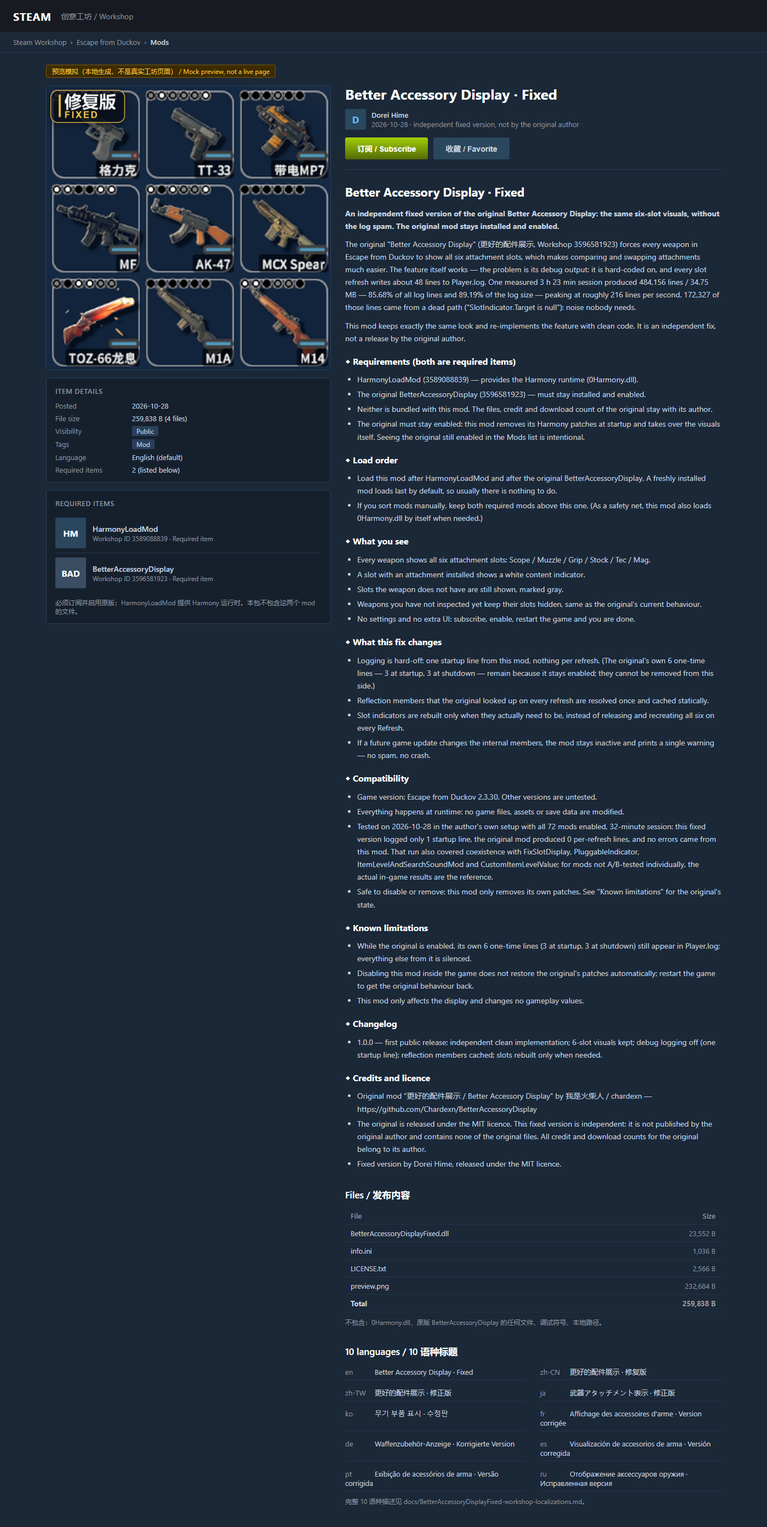
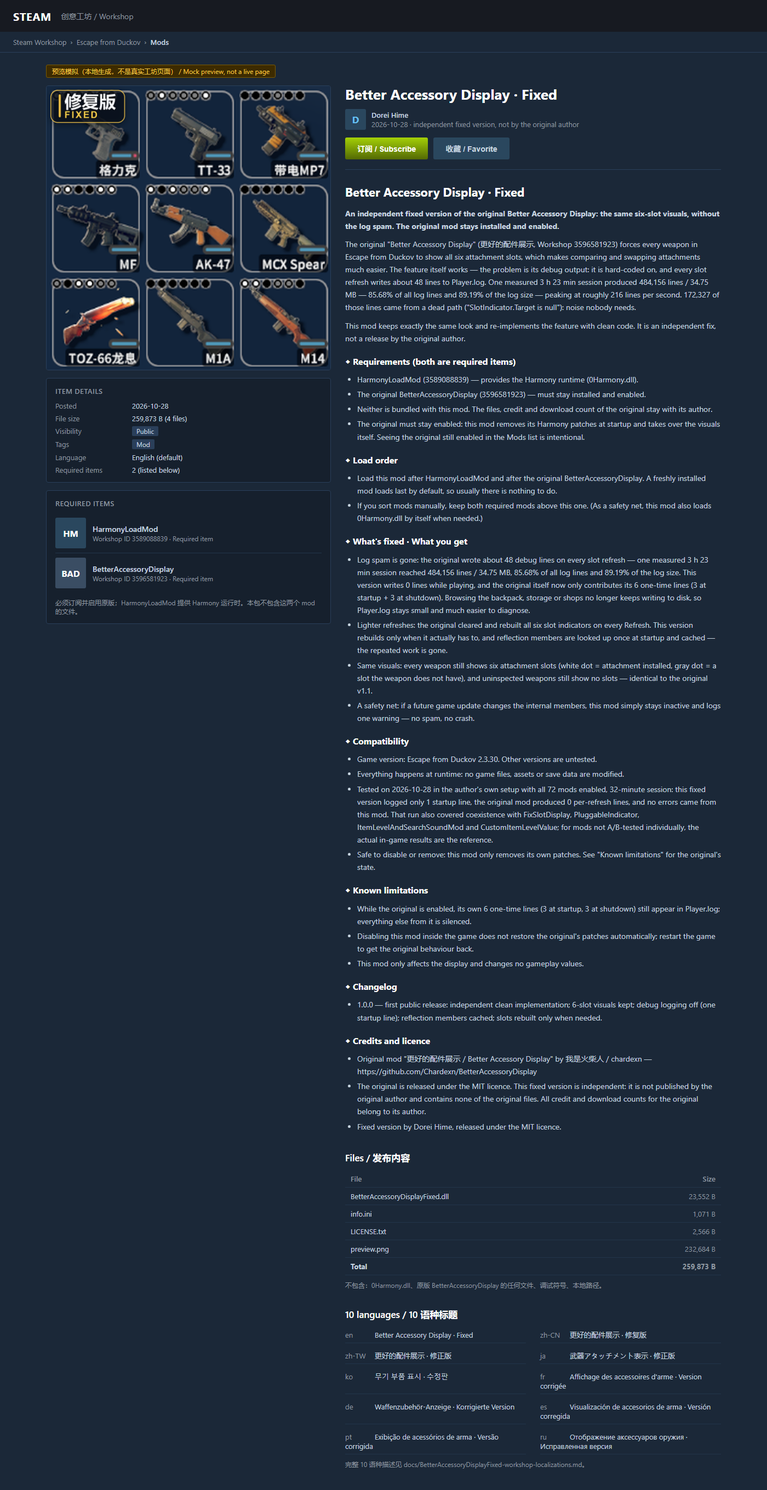
docs: link the published Steam Workshop item and refresh Workshop copy
Workshop item: https://steamcommunity.com/sharedfiles/filedetails/?id=3828601227 (10 languages; Russian description condensed to fit Steam's localized description limit).

diff --git a/docs/workshop-localizations.md b/docs/workshop-localizations.md
@@ -26,18 +26,11 @@ This mod keeps exactly the same look and re-implements the feature with clean co
 [list][*]Load this mod after HarmonyLoadMod and after the original BetterAccessoryDisplay. A freshly installed mod loads last by default, so usually there is nothing to do.
 [*]If you sort mods manually, keep both required mods above this one. (As a safety net, this mod also loads 0Harmony.dll by itself when needed.)[/list]
 
-[h2]◆ What you see[/h2]
-[list][*]Every weapon shows all six attachment slots: Scope / Muzzle / Grip / Stock / Tec / Mag.
-[*]A slot with an attachment installed shows a white content indicator.
-[*]Slots the weapon does not have are still shown, marked gray.
-[*]Weapons you have not inspected yet keep their slots hidden, same as the original's current behaviour.
-[*]No settings and no extra UI: subscribe, enable, restart the game and you are done.[/list]
-
-[h2]◆ What this fix changes[/h2]
-[list][*]Logging is hard-off: one startup line from this mod, nothing per refresh. (The original's own 6 one-time lines — 3 at startup, 3 at shutdown — remain because it stays enabled; they cannot be removed from this side.)
-[*]Reflection members that the original looked up on every refresh are resolved once and cached statically.
-[*]Slot indicators are rebuilt only when they actually need to be, instead of releasing and recreating all six on every Refresh.
-[*]If a future game update changes the internal members, the mod stays inactive and prints a single warning — no spam, no crash.[/list]
+[h2]◆ What's fixed · What you get[/h2]
+[list][*]Log spam is gone: the original wrote about 48 debug lines on every slot refresh — one measured 3 h 23 min session reached 484,156 lines / 34.75 MB, 85.68% of all log lines and 89.19% of the log size. This version writes 0 lines while playing, and the original itself now only contributes its 6 one-time lines (3 at startup + 3 at shutdown). Browsing the backpack, storage or shops no longer keeps writing to disk, so Player.log stays small and much easier to diagnose.
+[*]Lighter refreshes: the original cleared and rebuilt all six slot indicators on every Refresh. This version rebuilds only when it actually has to, and reflection members are looked up once at startup and cached — the repeated work is gone.
+[*]Same visuals: every weapon still shows six attachment slots (white dot = attachment installed, gray dot = a slot the weapon does not have), and uninspected weapons still show no slots — identical to the original v1.1.
+[*]A safety net: if a future game update changes the internal members, this mod simply stays inactive and logs one warning — no spam, no crash.[/list]
 
 [h2]◆ Compatibility[/h2]
 [list][*]Game version: Escape from Duckov 2.3.30. Other versions are untested.
@@ -81,18 +74,11 @@ locale tag: zh-CN
 [list][*]请让本 mod 排在 HarmonyLoadMod 和原版 BetterAccessoryDisplay 之后。新装的 mod 默认排在最后，通常不需要手动调整。
 [*]如果手动排序，把两个前置放在本 mod 上面即可。（本 mod 需要时也会自己加载 0Harmony.dll，作为兜底。）[/list]
 
-[h2]◆ 现在看起来怎么样[/h2]
-[list][*]所有武器都显示 6 个配件槽：瞄具 / 枪口 / 握把 / 枪托 / 战术 / 弹匣。
-[*]槽里装了配件时，内容指示器显示为白色。
-[*]武器本身没有的槽位也会显示出来，用灰色标记。
-[*]还没搜索（检视）过的武器不显示配件槽，和原版目前的行为一致。
-[*]没有设置项、没有新界面：订阅、启用、重启游戏即可。[/list]
-
-[h2]◆ 本版修复了什么[/h2]
-[list][*]日志写死关闭：本 mod 启动只留 1 行日志，不再按刷新刷屏。（原版自己的一次性启动/退出日志共 6 行：3 行启动 + 3 行退出；因为原版保持启用，这些日志仍然存在，这一侧无法消除。）
-[*]反射成员改为一次解析、静态缓存，不再每次刷新都重新查找。
-[*]槽位指示器只在需要时重建，不再每次 Refresh 都清空并重建全部 6 个。
-[*]如果将来游戏更新改了内部成员，本 mod 会保持不生效并只留一条警告，不会刷屏、也不会崩溃。[/list]
+[h2]◆ 修复了什么 · 你能得到什么[/h2]
+[list][*]日志刷屏归零：原版每次槽位刷新都写约 48 行调试日志——实测一次 3 小时 23 分钟的会话共 484,156 行 / 34.75 MB，占全部日志行数的 85.68%、体积的 89.19%。本版运行期 0 行，原版自身也只剩 3 行启动 + 3 行退出共 6 行一次性日志；反复翻背包、仓库、商店不再持续写盘，Player.log 更小，排查问题也轻松多了。
+[*]刷新更轻：原版每次 Refresh 都清空并重建全部 6 个槽位；本版只在真正需要时重建一次，反射成员也改为启动时查找一次并缓存，减少重复开销。
+[*]视觉不变：所有武器仍显示 6 个配件槽（白点 = 已装，灰点 = 武器没有的槽），未搜索武器不强制显示——与原版 v1.1 一致。
+[*]有兜底：将来游戏更新改掉内部成员时，本 mod 会保持不生效并只打 1 行警告，不刷屏、不崩溃。[/list]
 
 [h2]◆ 兼容性[/h2]
 [list][*]游戏版本：逃离鸭科夫 2.3.30；其他版本未测试。
@@ -136,18 +122,11 @@ locale tag: zh-TW
 [list][*]請讓本模組排在 HarmonyLoadMod 和原版 BetterAccessoryDisplay 之後。新裝的模組預設排在最後，通常不需要手動調整。
 [*]如果手動排序，把兩個前置放在本模組上面即可。（本模組需要時也會自己載入 0Harmony.dll，作為保險。）[/list]
 
-[h2]◆ 現在看起來怎麼樣[/h2]
-[list][*]所有武器都顯示 6 個配件槽：瞄準鏡 / 槍口 / 握把 / 槍托 / 戰術 / 彈匣。
-[*]槽裡裝了配件時，內容指示器顯示為白色。
-[*]武器本身沒有的槽位也會顯示出來，用灰色標記。
-[*]還沒搜索（檢視）過的武器不顯示配件槽，和原版目前的行為一致。
-[*]沒有設定項目、沒有新介面：訂閱、啟用、重新啟動遊戲即可。[/list]
-
-[h2]◆ 本版修正了什麼[/h2]
-[list][*]日誌寫死關閉：本模組啟動只留 1 行日誌，不再按重新整理刷屏。（原版自己的一次性啟動/退出日誌共 6 行：3 行啟動 + 3 行退出；因為原版保持啟用，這些日誌仍然存在，這一側無法消除。）
-[*]反射成員改為一次解析、靜態快取，不再每次重新整理都重新查找。
-[*]槽位指示器只在需要時重建，不再每次 Refresh 都清空並重建全部 6 個。
-[*]如果將來遊戲更新改了內部成員，本模組會保持不生效並只留一條警告，不會刷屏、也不會崩潰。[/list]
+[h2]◆ 修正了什麼 · 你能得到什麼[/h2]
+[list][*]日誌刷屏歸零：原版每次槽位重新整理都寫約 48 行除錯日誌——實測一次 3 小時 23 分鐘的工作階段共 484,156 行 / 34.75 MB，佔全部日誌行數的 85.68%、體積的 89.19%。本版執行期 0 行，原版自身也只剩 3 行啟動 + 3 行退出共 6 行一次性日誌；反覆翻背包、倉庫、商店不再持續寫入磁碟，Player.log 更小，排查問題也輕鬆多了。
+[*]重新整理更輕：原版每次 Refresh 都清空並重建全部 6 個槽位；本版只在真正需要時重建一次，反射成員也改為啟動時查找一次並快取，減少重複開銷。
+[*]視覺不變：所有武器仍顯示 6 個配件槽（白點 = 已裝，灰點 = 武器沒有的槽），未搜索武器不強制顯示——與原版 v1.1 一致。
+[*]安全防護：將來遊戲更新改掉內部成員時，本模組會保持不生效並只打 1 行警告，不刷屏、不崩潰。[/list]
 
 [h2]◆ 相容性[/h2]
 [list][*]遊戲版本：逃離鴨科夫 2.3.30；其他版本未測試。
@@ -191,18 +170,11 @@ locale tag: ja
 [list][*]本MODは HarmonyLoadMod とオリジナルの BetterAccessoryDisplay より後に読み込まれるようにしてください。新しくインストールしたMODは既定で最後に読み込まれるため、通常は何もする必要はありません。
 [*]手動で並べ替える場合は、2つの必須MODを本MODより上に置いてください。（必要に応じて本MOD自身が 0Harmony.dll を読み込むフォールバックもあります。）[/list]
 
-[h2]◆ 表示について[/h2]
-[list][*]すべての武器に6つのアタッチメントスロットが表示されます：スコープ / マズル / グリップ / ストック / タクティカル / マガジン。
-[*]アタッチメントが付いているスロットの内容インジケーターは白になります。
-[*]武器本来持っていないスロットも表示され、灰色で示されます。
-[*]まだ未捜索（未確認）の武器にはスロットを表示しません。オリジナルの現在の挙動と同じです。
-[*]設定項目も新しいUIもありません。サブスクライブして有効にし、ゲームを再起動するだけです。[/list]
-
-[h2]◆ 修正内容[/h2]
-[list][*]ログを完全にオフ：本MODの起動ログは1行だけで、更新ごとの出力はありません。（オリジナル自身の起動・終了ログは合計6行（起動3行＋終了3行）で、有効のままなので残ります。こちらからは消せません。）
-[*]リフレクションで取得していたメンバーは一度だけ解決して静的キャッシュに保存します。更新のたびに探し直すことはありません。
-[*]スロットインジケーターは必要なときだけ再構築します。Refresh のたびに全6個を解放して作り直すことはありません。
-[*]将来のゲーム更新で内部メンバーが変わった場合は、本MODは無効のまま警告を1行だけ出します。連続出力もクラッシュもしません。[/list]
+[h2]◆ 修正されたこと · 得られるメリット[/h2]
+[list][*]ログの大量出力はゼロに：オリジナルはスロット更新のたびに約48行のデバッグログを書き出していました。実測した3時間23分のセッションでは 484,156 行 / 34.75 MB、全ログ行の 85.68%、サイズの 89.19% を占めていました。本MODはプレイ中の出力が0行で、オリジナル自身も起動3行＋終了3行の合計6行（一度きり）だけになります。バックパックや倉庫、ショップを行き来しても書き込みが続かないので、Player.log は小さく、問題の切り分けもずっと楽になります。
+[*]更新処理が軽く：オリジナルは Refresh のたびに6つのスロット表示をすべて破棄して作り直していました。本MODは本当に必要なときだけ再構築し、リフレクションで取得するメンバーも起動時に一度だけ解決してキャッシュするため、無駄な処理が減ります。
+[*]見た目はそのまま：すべての武器に6つのアタッチメントスロットが表示され（白い点＝装着済み、灰色の点＝武器にないスロット）、未捜索の武器には表示されません。オリジナル v1.1 と同じです。
+[*]万一の備え：将来のゲーム更新で内部メンバーが変わった場合は、本MODは無効のまま警告を1行だけ出します。連続出力もクラッシュもありません。[/list]
 
 [h2]◆ 互換性[/h2]
 [list][*]ゲームバージョン：Escape from Duckov 2.3.30。他のバージョンでは未テストです。
@@ -246,18 +218,11 @@ locale tag: ko
 [list][*]이 모드는 HarmonyLoadMod와 원본 BetterAccessoryDisplay보다 뒤에 로드되어야 합니다. 새로 설치한 모드는 기본적으로 맨 마지막에 로드되므로 보통은 따로 할 일이 없습니다.
 [*]수동으로 정렬한다면 두 필수 모드를 이 모드 위에 두세요. (필요하면 이 모드가 0Harmony.dll을 직접 불러오는 안전장치도 있습니다.)[/list]
 
-[h2]◆ 표시 방식[/h2]
-[list][*]모든 무기에 6개 부착물 슬롯이 표시됩니다: 스코프 / 총구 / 그립 / 개머리판 / 전술 / 탄창.
-[*]부품이 장착된 슬롯의 내용 표시기는 흰색으로 표시됩니다.
-[*]무기 자체에 없는 슬롯도 표시되며 회색으로 구분됩니다.
-[*]아직 조사(검색)하지 않은 무기에는 슬롯이 표시되지 않습니다. 원본의 현재 동작과 같습니다.
-[*]설정 항목도, 새 UI도 없습니다. 구독하고 활성화한 뒤 게임을 재시작하면 됩니다.[/list]
-
-[h2]◆ 수정 내용[/h2]
-[list][*]로그를 완전히 끔: 이 모드의 시작 로그는 1줄뿐이고, 갱신할 때마다 출력하지 않습니다. (원본 자체의 일회성 시작·종료 로그는 총 6줄(시작 3줄 + 종료 3줄)이며, 원본이 활성 상태라 남습니다. 이쪽에서는 지울 수 없습니다.)
-[*]리플렉션으로 찾던 멤버는 한 번만 확인해 정적 캐시에 저장합니다. 갱신마다 다시 찾지 않습니다.
-[*]슬롯 표시기는 필요할 때만 다시 만듭니다. Refresh마다 6개를 모두 해제하고 새로 만들지 않습니다.
-[*]나중에 게임 업데이트로 내부 멤버가 바뀌면 이 모드는 비활성 상태로 경고 1줄만 남깁니다. 폭주하거나 튕기지 않습니다.[/list]
+[h2]◆ 수정된 것 · 얻을 수 있는 것[/h2]
+[list][*]로그 폭주 제로: 원본은 슬롯이 갱신될 때마다 약 48줄의 디버그 로그를 기록했습니다. 실제로 측정한 3시간 23분 세션에서 484,156줄 / 34.75 MB로 전체 로그 줄의 85.68%, 용량의 89.19%를 차지했습니다. 이 버전은 플레이 중 0줄을 기록하며, 원본 자체도 시작 3줄 + 종료 3줄, 총 6줄의 일회성 로그만 남습니다. 가방·창고·상점을 오가도 계속 디스크에 쓰지 않으니 Player.log가 작아지고 문제를 찾기도 훨씬 쉬워집니다.
+[*]갱신 부담 감소: 원본은 Refresh마다 6개 슬롯 표시를 모두 지우고 다시 만들었습니다. 이 버전은 정말 필요할 때만 다시 만들고, 리플렉션 멤버도 시작할 때 한 번 찾아 캐시해 두어 반복 작업이 줄어듭니다.
+[*]화면은 그대로: 모든 무기에 6개의 부착물 슬롯이 표시되고(흰 점 = 장착됨, 회색 점 = 무기에 없는 슬롯), 아직 조사하지 않은 무기에는 표시되지 않습니다. 원본 v1.1과 동일합니다.
+[*]안전장치: 나중에 게임 업데이트로 내부 멤버가 바뀌면 이 모드는 비활성 상태로 경고 1줄만 남깁니다. 폭주도, 튕김도 없습니다.[/list]
 
 [h2]◆ 호환성[/h2]
 [list][*]게임 버전: Escape from Duckov 2.3.30. 다른 버전은 테스트하지 않았습니다.
@@ -301,18 +266,11 @@ Ce mod conserve exactement le même rendu, mais avec un code propre. C'est une c
 [list][*]Chargez ce mod après HarmonyLoadMod et après l'original BetterAccessoryDisplay. Un mod fraîchement installé se charge en dernier par défaut : en général, rien à faire.
 [*]Si vous triez à la main, gardez les deux prérequis au-dessus de ce mod. (Par sécurité, ce mod charge aussi 0Harmony.dll lui-même si nécessaire.)[/list]
 
-[h2]◆ Ce que vous verrez[/h2]
-[list][*]Toutes les armes affichent six emplacements : lunette / bouche / poignée / crosse / tactique / chargeur.
-[*]Un emplacement occupé par un accessoire affiche un indicateur blanc.
-[*]Les emplacements que l'arme ne possède pas sont quand même affichés, en gris.
-[*]Les armes pas encore inspectées n'affichent pas leurs emplacements, comme dans la version actuelle de l'original.
-[*]Aucun réglage, aucune interface en plus : abonnez-vous, activez, redémarrez le jeu.[/list]
-
-[h2]◆ Ce que corrige cette version[/h2]
-[list][*]Logs désactivés : une seule ligne au démarrage, plus rien à chaque rafraîchissement. (Les 6 lignes ponctuelles de l'original — 3 au démarrage, 3 à la fermeture — restent, puisqu'il reste activé ; impossible de les retirer de ce côté.)
-[*]Les membres obtenus par réflexion sont résolus une fois puis mis en cache, au lieu d'être recherchés à chaque rafraîchissement.
-[*]Les indicateurs d'emplacement ne sont reconstruits que si nécessaire, au lieu d'être tous libérés et recréés à chaque Refresh.
-[*]Si une future mise à jour du jeu renomme les membres internes, le mod reste inactif avec un seul avertissement, sans spam ni crash.[/list]
+[h2]◆ Ce qui est corrigé · Ce que vous y gagnez[/h2]
+[list][*]Plus aucun spam de logs : l'original écrivait environ 48 lignes de debug à chaque rafraîchissement d'emplacement — sur une session mesurée de 3 h 23, cela faisait 484 156 lignes / 34,75 Mo, soit 85,68 % des lignes et 89,19 % du volume du journal. Cette version n'écrit aucune ligne pendant le jeu, et l'original lui-même n'apporte plus que ses 6 lignes ponctuelles (3 au démarrage + 3 à la fermeture). Naviguer dans le sac, le stockage ou les boutiques n'écrit plus en continu sur le disque : Player.log reste petit et bien plus facile à diagnostiquer.
+[*]Rafraîchissements plus légers : l'original vidait et reconstruisait les six indicateurs d'emplacement à chaque Refresh. Cette version ne reconstruit que lorsque c'est vraiment nécessaire, et les membres obtenus par réflexion sont résolus une fois au démarrage puis mis en cache, ce qui supprime le travail répété.
+[*]Visuel inchangé : toutes les armes affichent toujours six emplacements d'accessoires (point blanc = accessoire installé, point gris = emplacement absent de l'arme), et les armes non inspectées n'affichent rien — identique à l'original v1.1.
+[*]Filet de sécurité : si une future mise à jour du jeu modifie les membres internes, le mod reste inactif et n'affiche qu'un seul avertissement — pas de spam, pas de crash.[/list]
 
 [h2]◆ Compatibilité[/h2]
 [list][*]Version du jeu : Escape from Duckov 2.3.30. Autres versions non testées.
@@ -356,18 +314,11 @@ Dieser Mod behält das exakt gleiche Aussehen, verwendet aber sauberen Code. Es 
 [list][*]Dieser Mod muss nach HarmonyLoadMod und nach dem Original BetterAccessoryDisplay geladen werden. Neu installierte Mods werden standardmäßig zuletzt geladen – meist ist nichts zu tun.
 [*]Bei manueller Sortierung beide Voraussetzungen über diesem Mod lassen. (Zur Sicherheit lädt dieser Mod bei Bedarf auch selbst 0Harmony.dll.)[/list]
 
-[h2]◆ So sieht es aus[/h2]
-[list][*]Alle Waffen zeigen sechs Zubehör-Slots: Zielfernrohr / Mündung / Griff / Schaft / Taktik / Magazin.
-[*]Ein belegter Slot erhält eine weiße Inhaltsanzeige.
-[*]Slots, die die Waffe nicht besitzt, werden trotzdem angezeigt – in Grau.
-[*]Noch nicht untersuchte Waffen zeigen keine Slots, wie beim Original in der aktuellen Version.
-[*]Keine Einstellungen, keine zusätzliche Oberfläche: abonnieren, aktivieren, Spiel neu starten.[/list]
-
-[h2]◆ Was die Korrektur ändert[/h2]
-[list][*]Logs fest aus: nur eine Startzeile, sonst nichts pro Refresh. (Die 6 einmaligen Zeilen des Originals – 3 beim Start, 3 beim Beenden – bleiben, weil es aktiviert bleibt; von dieser Seite sind sie nicht entfernbar.)
-[*]Reflexions-Member werden einmal ermittelt und statisch zwischengespeichert statt bei jedem Refresh neu gesucht.
-[*]Slot-Indikatoren werden nur bei Bedarf neu aufgebaut, statt bei jedem Refresh alle sechs freizugeben und neu zu erzeugen.
-[*]Falls ein künftiges Spielupdate interne Member umbenennt, bleibt der Mod inaktiv und meldet nur eine Warnung – kein Spam, kein Absturz.[/list]
+[h2]◆ Was behoben ist · Was Sie davon haben[/h2]
+[list][*]Kein Log-Spam mehr: Das Original schrieb bei jedem Slot-Refresh etwa 48 Debug-Zeilen — in einer gemessenen Sitzung von 3 Std. 23 Min. waren das 484.156 Zeilen / 34,75 MB, also 85,68 % aller Logzeilen und 89,19 % des Logvolumens. Diese Version schreibt im Spiel 0 Zeilen, und das Original selbst liefert nur noch seine 6 einmaligen Zeilen (3 beim Start + 3 beim Beenden). Wer Rucksack, Lager oder Läden durchsucht, löst keine fortlaufenden Schreibvorgänge mehr aus: Player.log bleibt klein und lässt sich viel leichter auswerten.
+[*]Leichtere Refreshes: Das Original leerte und erzeugte bei jedem Refresh alle sechs Slot-Indikatoren neu. Diese Version baut sie nur noch auf, wenn es wirklich nötig ist, und Reflexions-Member werden beim Start einmal ermittelt und zwischengespeichert — die wiederholte Arbeit entfällt.
+[*]Optik unverändert: Alle Waffen zeigen weiterhin sechs Zubehör-Slots (weißer Punkt = Zubehör montiert, grauer Punkt = Slot, den die Waffe nicht hat), und noch nicht untersuchte Waffen zeigen keine Slots — identisch zum Original v1.1.
+[*]Absicherung: Falls ein künftiges Spielupdate die internen Member ändert, bleibt der Mod inaktiv und schreibt nur eine Warnzeile — kein Spam, kein Absturz.[/list]
 
 [h2]◆ Kompatibilität[/h2]
 [list][*]Spielversion: Escape from Duckov 2.3.30. Andere Versionen ungetestet.
@@ -411,18 +362,11 @@ Este mod mantiene exactamente el mismo aspecto, pero con código limpio. Es una 
 [list][*]Carga este mod después de HarmonyLoadMod y del original BetterAccessoryDisplay. Un mod recién instalado se carga al final por defecto, así que normalmente no hay que hacer nada.
 [*]Si ordenas manualmente, deja los dos requisitos por encima de este mod. (Como red de seguridad, este mod también carga 0Harmony.dll por sí mismo si hace falta.)[/list]
 
-[h2]◆ Qué verás[/h2]
-[list][*]Todas las armas muestran seis espacios: mira / boca / empuñadura / culata / táctico / cargador.
-[*]Los espacios con un accesorio colocado muestran un indicador blanco.
-[*]Los espacios que el arma no tiene se muestran igualmente, en gris.
-[*]Las armas aún no inspeccionadas no muestran sus espacios, como en el comportamiento actual del original.
-[*]Sin ajustes ni interfaz extra: suscríbete, actívalo y reinicia el juego.[/list]
-
-[h2]◆ Qué corrige esta versión[/h2]
-[list][*]Registros desactivados: una sola línea al iniciar y ninguna por refresco. (Las 6 líneas puntuales del original — 3 de inicio y 3 de cierre — permanecen porque sigue activado; no se pueden quitar desde este lado.)
-[*]Los miembros obtenidos por reflexión se resuelven una vez y se guardan en caché, en lugar de buscarse en cada refresco.
-[*]Los indicadores de espacio se reconstruyen solo cuando hace falta, en vez de liberar y recrear los seis en cada Refresh.
-[*]Si una futura actualización del juego cambia los miembros internos, el mod queda inactivo con un solo aviso, sin exceso de registros ni cuelgues.[/list]
+[h2]◆ Qué se corrige · Qué ganas[/h2]
+[list][*]Se acabó el spam de registros: el original escribía unas 48 líneas de depuración en cada refresco de espacio — en una sesión medida de 3 h 23 min eran 484.156 líneas / 34,75 MB, el 85,68 % de las líneas y el 89,19 % del tamaño del registro. Esta versión escribe 0 líneas durante el juego, y el original solo aporta ya sus 6 líneas puntuales (3 de inicio + 3 de cierre). Revisar la mochila, el almacén o las tiendas ya no genera escrituras continuas en disco: Player.log queda pequeño y es mucho más fácil diagnosticar.
+[*]Refrescos más ligeros: el original vaciaba y reconstruía los seis indicadores de espacio en cada Refresh. Esta versión solo reconstruye cuando hace falta de verdad, y los miembros obtenidos por reflexión se resuelven una vez al iniciar y se guardan en caché, eliminando el trabajo repetido.
+[*]Aspecto sin cambios: todas las armas siguen mostrando seis espacios de accesorios (punto blanco = accesorio instalado, punto gris = espacio que el arma no tiene), y las armas no inspeccionadas no muestran nada — igual que el original v1.1.
+[*]Red de seguridad: si una futura actualización del juego cambia los miembros internos, el mod queda inactivo y solo escribe un aviso — sin spam ni cuelgues.[/list]
 
 [h2]◆ Compatibilidad[/h2]
 [list][*]Versión del juego: Escape from Duckov 2.3.30. Otras versiones sin probar.
@@ -466,18 +410,11 @@ Este mod mantém exatamente a mesma aparência, mas com código limpo. É uma co
 [list][*]Carregue este mod depois do HarmonyLoadMod e do original BetterAccessoryDisplay. Um mod recém-instalado carrega por último por padrão, então normalmente não há nada a fazer.
 [*]Se você ordenar manualmente, mantenha os dois requisitos acima deste mod. (Como segurança, este mod também carrega o 0Harmony.dll sozinho quando necessário.)[/list]
 
-[h2]◆ O que você vai ver[/h2]
-[list][*]Todas as armas mostram seis espaços: mira / boca / empunhadura / coronha / tático / carregador.
-[*]Os espaços com um acessório equipado mostram um indicador branco.
-[*]Os espaços que a arma não tem continuam aparecendo, em cinza.
-[*]As armas ainda não inspecionadas não mostram os espaços, como no comportamento atual do original.
-[*]Sem configurações e sem interface extra: inscreva-se, ative e reinicie o jogo.[/list]
-
-[h2]◆ O que esta correção muda[/h2]
-[list][*]Logs desligados: uma única linha na inicialização e nada a cada atualização. (As 6 linhas pontuais do original — 3 na inicialização e 3 no encerramento — continuam, porque ele fica ativado; não dá para removê-las deste lado.)
-[*]Os membros obtidos por reflexão são resolvidos uma vez e armazenados em cache, em vez de procurados a cada atualização.
-[*]Os indicadores de espaço são recriados só quando necessário, em vez de liberar e recriar os seis a cada Refresh.
-[*]Se uma futura atualização do jogo mudar os membros internos, o mod fica inativo com um único aviso, sem excesso de logs nem travamentos.[/list]
+[h2]◆ O que foi corrigido · O que você ganha[/h2]
+[list][*]Fim do excesso de logs: o original gravava cerca de 48 linhas de depuração a cada atualização dos espaços — numa sessão medida de 3 h 23 min, eram 484.156 linhas / 34,75 MB, 85,68% das linhas e 89,19% do tamanho do log. Esta versão grava 0 linhas durante o jogo, e o original passa a contribuir apenas com as suas 6 linhas pontuais (3 na inicialização + 3 no encerramento). Abrir a mochila, o armazém ou as lojas não gera mais gravações contínuas em disco: o Player.log fica pequeno e bem mais fácil de diagnosticar.
+[*]Atualizações mais leves: o original liberava e recriava os seis indicadores de espaço a cada Refresh. Esta versão só recria quando é realmente necessário, e os membros obtidos por reflexão são resolvidos uma vez na inicialização e ficam em cache, eliminando trabalho repetido.
+[*]Visual igual: todas as armas continuam mostrando seis espaços de acessórios (ponto branco = acessório instalado, ponto cinza = espaço que a arma não tem), e armas ainda não inspecionadas não mostram nada — igual ao original v1.1.
+[*]Proteção: se uma futura atualização do jogo mudar os membros internos, o mod fica inativo e registra apenas um aviso — sem excesso de logs e sem travamentos.[/list]
 
 [h2]◆ Compatibilidade[/h2]
 [list][*]Versão do jogo: Escape from Duckov 2.3.30. Outras versões não testadas.
@@ -507,49 +444,40 @@ locale tag: ru
 [h1]Отображение аксессуаров оружия · Исправленная версия[/h1]
 [b]Независимая исправленная версия оригинального мода Better Accessory Display: те же 6 слотов, но без потока логов. Оригинал остаётся установленным и включённым.[/b]
 
-Оригинальный мод «Better Accessory Display» (更好的配件展示, Workshop 3596581923) принудительно показывает у всего оружия в Escape from Duckov все шесть слотов для аксессуаров — так удобнее сравнивать и менять обвес. Сама функция полезная, а проблема в отладочных логах: они жёстко включены в коде и не отключаются, и при каждом обновлении слотов в Player.log пишутся примерно 48 строк. На замере сессии длиной 3 ч 23 мин это дало 484 156 строк / 34,75 МБ — 85,68 % всех строк и 89,19 % объёма лога, с пиками около 216 строк в секунду. 172 327 из этих строк приходились на мёртвую ветку («SlotIndicator.Target is null») и были чистым шумом.
-
-Этот мод сохраняет точно такой же внешний вид, но реализован чистым кодом. Это независимое исправление, а не публикация автора оригинала.
+Оригинал «Better Accessory Display» (更好的配件展示, Workshop 3596581923) принудительно показывает у всего оружия в Escape from Duckov все шесть слотов аксессуаров. Проблема — отладочные логи: они жёстко включены, и при каждом обновлении слотов в Player.log пишутся ~48 строк. За сессию 3 ч 23 мин это дало 484 156 строк / 34,75 МБ: 85,68 % всех строк и 89,19 % объёма лога. Эта версия сохраняет внешний вид, но реализована чистым кодом; это независимое исправление, а не публикация автора оригинала.
 
 [h2]◆ Требования (оба — обязательные предметы)[/h2]
-[list][*]HarmonyLoadMod (3589088839) — предоставляет среду Harmony (0Harmony.dll).
+[list][*]HarmonyLoadMod (3589088839) — среда Harmony (0Harmony.dll).
 [*]Оригинальный BetterAccessoryDisplay (3596581923) — должен оставаться установленным и включённым.
-[*]Ни один из них не входит в этот мод. Файлы, упоминание и количество загрузок оригинала остаются у его автора.
-[*]Оригинал должен оставаться включённым: этот мод при запуске снимает его патчи Harmony и сам отвечает за отображение. То, что оригинал в списке модов выглядит включённым, — это задумано.[/list]
+[*]Ничего из этого не входит в мод; файлы, упоминание и загрузки оригинала остаются у его автора.
+[*]Оригинал должен быть включён: мод снимает его патчи Harmony при запуске и сам отвечает за отображение. Включённый оригинал в списке модов — это задумано.[/list]
 
 [h2]◆ Порядок загрузки[/h2]
-[list][*]Загружайте этот мод после HarmonyLoadMod и после оригинального BetterAccessoryDisplay. Только что установленный мод по умолчанию загружается последним, так что обычно ничего делать не нужно.
-[*]При ручной сортировке оставьте оба обязательных мода выше этого. (Для надёжности этот мод при необходимости сам загружает 0Harmony.dll.)[/list]
+[list][*]Загружайте мод после HarmonyLoadMod и оригинального BetterAccessoryDisplay. Новые моды по умолчанию загружаются последними, так что обычно ничего делать не нужно.
+[*]При ручной сортировке оставьте оба обязательных мода выше. (При необходимости мод сам загружает 0Harmony.dll.)[/list]
 
-[h2]◆ Как это выглядит[/h2]
-[list][*]У всего оружия показываются шесть слотов: прицел / дуло / рукоятка / приклад / тактика / магазин.
-[*]Слот с установленным аксессуаром получает белый индикатор содержимого.
-[*]Слоты, которых у оружия нет, всё равно показываются и помечаются серым.
-[*]У ещё не осмотренных (непроинспектированных) единиц оружия слоты не показываются — как в текущем поведении оригинала.
-[*]Никаких настроек и нового интерфейса: подписаться, включить, перезапустить игру.[/list]
-
-[h2]◆ Что исправлено[/h2]
-[list][*]Логи жёстко выключены: одна строка при запуске и ничего при каждом обновлении. (Собственные одноразовые 6 строк оригинала — 3 при запуске и 3 при выходе — остаются, потому что он включён; с этой стороны их не убрать.)
-[*]Члены, получаемые через рефлексию, определяются один раз и кешируются статически, а не ищутся при каждом обновлении.
-[*]Индикаторы слотов пересоздаются только при необходимости, а не освобождаются и создаются заново все шесть при каждом Refresh.
-[*]Если будущее обновление игры переименует внутренние члены, мод останется неактивным и выведет только одно предупреждение — без спама и падений.[/list]
+[h2]◆ Что исправлено · Что вы получаете[/h2]
+[list][*]Поток логов исчез: 48 строк на каждое обновление и 484 156 строк / 34,75 МБ за сессию 3 ч 23 мин (85,68 % строк, 89,19 % объёма) — теперь 0 строк во время игры, а у оригинала остаются только 6 одноразовых строк (3 при запуске + 3 при выходе). Рюкзак, склад и магазины больше не пишут на диск постоянно — Player.log меньше и проще для диагностики.
+[*]Обновления легче: оригинал при каждом Refresh очищал и создавал заново все 6 индикаторов слотов — теперь пересоздание только при необходимости, а члены рефлексии определяются один раз при запуске и кешируются.
+[*]Вид прежний: 6 слотов у всего оружия (белая точка — аксессуар установлен, серая — слота у оружия нет), у неосмотренных единиц слоты не показываются; как в оригинале v1.1.
+[*]Подстраховка: если обновление игры изменит внутренние члены, мод останется неактивным и выведет одно предупреждение — без спама и падений.[/list]
 
 [h2]◆ Совместимость[/h2]
-[list][*]Версия игры: Escape from Duckov 2.3.30. Другие версии не проверялись.
-[*]Всё работает во время выполнения: файлы игры, ресурсы и сохранения не изменяются.
-[*]Реальный тест 2026-10-28 в окружении автора со всеми 72 модами, 32 минуты: эта исправленная версия записала только одну строку при запуске, оригинал — 0 строк на обновление, ошибок, связанных с этим модом, не было. В окружении также были FixSlotDisplay, PluggableIndicator, ItemLevelAndSearchSoundMod и CustomItemLevelValue; для модов, которые не проверялись отдельным A/B-тестом, ориентир — фактическое поведение.
-[*]Отключать или удалять безопасно: мод снимает только свои патчи. О состоянии оригинала см. «Известные ограничения».[/list]
+[list][*]Игра: Escape from Duckov 2.3.30 (проверено); другие версии не тестировались.
+[*]Только во время выполнения: файлы, ресурсы и сохранения не изменяются.
+[*]Тест 2026-10-28 в окружении автора со всеми 72 модами, 32 минуты: 1 строка запуска, 0 строк на обновление, ошибок нет. В окружении также были FixSlotDisplay, PluggableIndicator, ItemLevelAndSearchSoundMod и CustomItemLevelValue; для модов без отдельного A/B-теста ориентир — фактическое поведение.
+[*]Отключать и удалять безопасно: мод снимает только свои патчи. Состояние оригинала — в «Известных ограничениях».[/list]
 
 [h2]◆ Известные ограничения[/h2]
-[list][*]Пока оригинал включён, его собственные одноразовые 6 строк (3 при запуске и 3 при выходе) остаются в Player.log; остальной его вывод заглушен.
-[*]Если отключить этот мод внутри игры, патчи оригинала не восстановятся автоматически; перезапустите игру, чтобы вернуть прежнее поведение.
-[*]Мод влияет только на отображение и не меняет игровые значения или прогресс.[/list]
+[list][*]При включённом оригинале его 6 одноразовых строк (3 при запуске + 3 при выходе) остаются в Player.log; остальной вывод заглушен.
+[*]Если отключить мод в игре, патчи оригинала сами не вернутся — перезапустите игру.
+[*]Мод влияет только на отображение, игровые значения не меняются.[/list]
 
 [h2]◆ История изменений[/h2]
-[list][*]1.0.0 — первый публичный выпуск: независимая чистая реализация; внешний вид с 6 слотами сохранён; отладочные логи выключены (одна строка при запуске); члены рефлексии кешируются; слоты пересоздаются только при необходимости.[/list]
+[list][*]1.0.0 — первый публичный выпуск: чистая независимая реализация, прежний вид 6 слотов, отладочные логи выключены (1 строка запуска), кеш рефлексии, пересоздание слотов по необходимости.[/list]
 
 [h2]◆ Благодарности и лицензия[/h2]
-[list][*]Оригинальный мод «更好的配件展示 / Better Accessory Display» — 我是火柴人 / chardexn — https://github.com/Chardexn/BetterAccessoryDisplay
-[*]Оригинал распространяется по лицензии MIT. Эта исправленная версия независима: она выпущена не автором оригинала и не содержит его файлов. Упоминание и загрузки оригинала принадлежат его автору.
+[list][*]Оригинал «更好的配件展示 / Better Accessory Display» — 我是火柴人 / chardexn: https://github.com/Chardexn/BetterAccessoryDisplay
+[*]Оригинал под лицензией MIT. Это независимое исправление: не публикация автора оригинала, файлов оригинала здесь нет; упоминание и загрузки принадлежат автору.
 [*]Исправленная версия: Dorei Hime, лицензия MIT.[/list]
 ```

diff --git a/docs/WORKSHOP_DESCRIPTION.md b/docs/WORKSHOP_DESCRIPTION.md
@@ -15,18 +15,11 @@ This mod keeps exactly the same look and re-implements the feature with clean co
 [list][*]Load this mod after HarmonyLoadMod and after the original BetterAccessoryDisplay. A freshly installed mod loads last by default, so usually there is nothing to do.
 [*]If you sort mods manually, keep both required mods above this one. (As a safety net, this mod also loads 0Harmony.dll by itself when needed.)[/list]
 
-[h2]◆ What you see[/h2]
-[list][*]Every weapon shows all six attachment slots: Scope / Muzzle / Grip / Stock / Tec / Mag.
-[*]A slot with an attachment installed shows a white content indicator.
-[*]Slots the weapon does not have are still shown, marked gray.
-[*]Weapons you have not inspected yet keep their slots hidden, same as the original's current behaviour.
-[*]No settings and no extra UI: subscribe, enable, restart the game and you are done.[/list]
-
-[h2]◆ What this fix changes[/h2]
-[list][*]Logging is hard-off: one startup line from this mod, nothing per refresh. (The original's own 6 one-time lines — 3 at startup, 3 at shutdown — remain because it stays enabled; they cannot be removed from this side.)
-[*]Reflection members that the original looked up on every refresh are resolved once and cached statically.
-[*]Slot indicators are rebuilt only when they actually need to be, instead of releasing and recreating all six on every Refresh.
-[*]If a future game update changes the internal members, the mod stays inactive and prints a single warning — no spam, no crash.[/list]
+[h2]◆ What's fixed · What you get[/h2]
+[list][*]Log spam is gone: the original wrote about 48 debug lines on every slot refresh — one measured 3 h 23 min session reached 484,156 lines / 34.75 MB, 85.68% of all log lines and 89.19% of the log size. This version writes 0 lines while playing, and the original itself now only contributes its 6 one-time lines (3 at startup + 3 at shutdown). Browsing the backpack, storage or shops no longer keeps writing to disk, so Player.log stays small and much easier to diagnose.
+[*]Lighter refreshes: the original cleared and rebuilt all six slot indicators on every Refresh. This version rebuilds only when it actually has to, and reflection members are looked up once at startup and cached — the repeated work is gone.
+[*]Same visuals: every weapon still shows six attachment slots (white dot = attachment installed, gray dot = a slot the weapon does not have), and uninspected weapons still show no slots — identical to the original v1.1.
+[*]A safety net: if a future game update changes the internal members, this mod simply stays inactive and logs one warning — no spam, no crash.[/list]
 
 [h2]◆ Compatibility[/h2]
 [list][*]Game version: Escape from Duckov 2.3.30. Other versions are untested.

diff --git a/docs/TEST_REPORT.md b/docs/TEST_REPORT.md
@@ -13,6 +13,7 @@
 | 游戏语言 | 简体中文 | 实测 |
[1 lines of base64/hex data omitted]
 | 日志路径 | `%USERPROFILE%\AppData\LocalLow\TeamSoda\Duckov\Player.log` | 已使用 |
+| 发布工坊 | [3828601227](https://steamcommunity.com/sharedfiles/filedetails/?id=3828601227)（2026-10-28 发布） | 已发布 |
 | 测试日期 / 测试方式 | 2026-10-28 10:14–10:46（首轮，32 分 14 秒）+ 10:46:41–10:57:33（重启验证轮，10 分 52 秒） | 实机 |
 | 基线来源 | ① 历史 3h23m 会话统计（`work/loadorder/log-perf.md`）；② 修复前 `Player-prev.log` 直接统计（见 §1.3） | 已实测（修复前） |
 
@@ -36,7 +37,7 @@
 | 项目 | 结果 |
 |---|---|
 | 构建环境 | .NET SDK 10.0.302，`Release`，`dotnet build` **0 warning / 0 error**（游戏 2.3.30 Managed 程序集 + HarmonyLoadMod 的 0Harmony 2.4.1 编译期引用，`Private=false`） |
-| 产物 | `dist\BetterAccessoryDisplayFixed\` 共 4 个文件 / 259,838 bytes：DLL 23,552 B、info.ini 1,036 B、LICENSE.txt 2,566 B、preview.png 232,684 B（512×512） |
+| 产物 | `dist\BetterAccessoryDisplayFixed\` 共 4 个文件 / 259,873 bytes：DLL 23,552 B、info.ini 1,071 B、LICENSE.txt 2,566 B、preview.png 232,684 B（512×512） |
 | 静态校验 `verify-badfixed.ps1` | 通过：入口类型 `BetterAccessoryDisplayFixed.ModBehaviour` 存在且继承 `Duckov.Modding.ModBehaviour`；程序集引用仅游戏/Unity/System 程序集 + `0Harmony`（编译期，未随包）；包内不含 `0Harmony.dll` / 原版文件 |
 | 离线冒烟（`work/badfixed-smoke`） | 通过（元数据级）：游戏 2.3.30 中 `ItemDisplay.slotIndicatorContainer`、`ItemDisplay.SlotIndicatorPool`、`SlotIndicator.contentIndicator` 三个反射成员均存在；`ItemDisplay.Setup/Refresh`、`SlotIndicator.Refresh` 三个目标方法存在；3 个 `[HarmonyPatch]` 类、4 个 patch 方法（1 prefix + 3 postfix）可被 Harmony 正确识别。真实 `PatchAll` 需游戏自带 Mono，已由实机测试覆盖。 |
 | 加载顺序（已写入） | `Mods.ES3`：HarmonyLoadMod #0 → 原版 BetterAccessoryDisplay #60 → **BetterAccessoryDisplayFixed #61** → WhereAreMyItems #62；写后回读校验通过；`Global.json` 中 `ModActive_BetterAccessoryDisplayFixed = true` |

diff --git a/docs/RELEASE_NOTES.md b/docs/RELEASE_NOTES.md
@@ -10,6 +10,7 @@
 |---|---|
 | 显示名（暂定） | 更好的配件展示 · 修复版 \| Better Accessory Display (Fixed) |
 | 工坊标题（en / zh-CN） | Better Accessory Display · Fixed / 更好的配件展示 · 修复版（其余 8 语种见工坊文案文件） |
+| Steam 工坊 | [3828601227](https://steamcommunity.com/sharedfiles/filedetails/?id=3828601227)（2026-10-28 发布） |
 | 内部名 / 工坊目录 | `BetterAccessoryDisplayFixed` |
 | 版本 | **1.0.0**（首个公开版本） |
 | 适配游戏 | Escape from Duckov **2.3.30**（Steam appid 3167020） |
@@ -142,7 +143,7 @@
 | `preview.png` | 工坊预览图 512×512（原版封面 + 左上角「修复版 / FIXED」角标，232,684 bytes） |
 | `LICENSE.txt` | MIT 许可 + 原版署名/来源说明 + 预览图来源说明（2,566 bytes） |
 
-- 整个发布包 4 个文件 / 259,838 bytes；不包含：原版 mod 的任何文件、`0Harmony.dll`、本地调试符号。
+- 整个发布包 4 个文件 / 259,873 bytes；不包含：原版 mod 的任何文件、`0Harmony.dll`、本地调试符号。
 
 ## 8. 致谢与许可
 

diff --git a/README.md b/README.md
@@ -51,7 +51,7 @@ friendly warning (no popup, no crash).
 2. Enable all three in the game's **Mods** list (the original must stay enabled).
 3. Restart the game. Load this fixed version after the two required items.
 
-Steam Workshop: *published alongside v1.0.0 — link will be added here after the first upload.*
+Steam Workshop: <https://steamcommunity.com/sharedfiles/filedetails/?id=3828601227>
 
 ## Build
 

diff --git a/README.zh-CN.md b/README.zh-CN.md
@@ -39,7 +39,7 @@
 2. 在游戏 Mods 列表里把三者都启用（原版必须保持启用）；
 3. 重启游戏，本修复版排在两个前置之后即可。
 
-Steam 创意工坊：*随 v1.0.0 一起发布——首次上传后会把链接补到这里。*
+Steam Workshop: <https://steamcommunity.com/sharedfiles/filedetails/?id=3828601227>
 
 ## 构建
 
